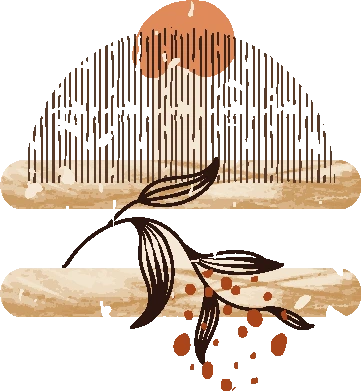
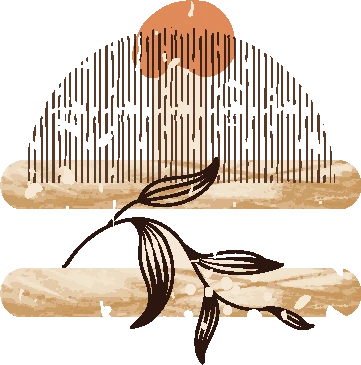
Minute u lijevom stupcu, grancica preko krugova, motivi bez tockica, veci razmak u koracima

diff --git a/en/index.html b/en/index.html
@@ -76,9 +76,9 @@
   .nn .fy-item::before{content:"";position:absolute;left:50%;top:50%;transform:translate(-50%,-50%);
     height:82%;opacity:.1;margin-top:6%;pointer-events:none;z-index:0;
     background:center/contain no-repeat}
-  .nn .fy-item:nth-child(1)::before{background-image:url('../wp-content/uploads/soul/motiv-a7-1.webp');aspect-ratio:361/391}
+  .nn .fy-item:nth-child(1)::before{background-image:url('../wp-content/uploads/soul/motiv-a7-1.webp');aspect-ratio:361/365}
   .nn .fy-item:nth-child(2)::before{background-image:url('../wp-content/uploads/soul/motiv-a7-2.webp');aspect-ratio:326/479}
-  .nn .fy-item:nth-child(3)::before{background-image:url('../wp-content/uploads/soul/motiv-a7-3.webp');aspect-ratio:369/479}
+  .nn .fy-item:nth-child(3)::before{background-image:url('../wp-content/uploads/soul/motiv-a7-3.webp');aspect-ratio:369/456}
   .nn .fy-item:nth-child(4)::before{background-image:url('../wp-content/uploads/soul/motiv-a7-4.webp');aspect-ratio:308/426}
   .nn .fy-item svg,.nn .fy-item .lbl,.nn .fy-item p{position:relative;z-index:1}
   @media(max-width:860px){
@@ -129,20 +129,25 @@
   /* 6 · POKLON BON — okvir desno, tekst lijevo */
   .nn .gift{position:relative;display:block;padding:clamp(4rem,6vw,6.5rem) 2rem;background:var(--cream);overflow:hidden}
   .nn .gwrap{max-width:1240px;margin:0 auto;display:grid;grid-template-columns:auto auto auto;justify-content:center;align-items:center;gap:clamp(1.5rem,4vw,4rem)}
-  .nn .gdivide{position:relative;z-index:2;right:clamp(-120px,-8vw,-54px);width:min(230px,16vw);aspect-ratio:302/548;justify-self:center;background:url('../wp-content/uploads/soul/motiv-a6-4.webp') center/contain no-repeat;align-self:center}
+  .nn .gdivide{position:relative;z-index:2;right:clamp(-165px,-11vw,-74px);width:min(230px,16vw);aspect-ratio:302/548;justify-self:center;background:url('../wp-content/uploads/soul/motiv-a6-4.webp') center/contain no-repeat;align-self:center}
   .nn .gcopy{width:fit-content;max-width:min(460px,34vw)}
   .nn .gcopy .eyebrow{display:block;font-size:.74rem;color:var(--terra);margin-bottom:.9rem}
   .nn .gcopy h2{font-size:clamp(2.2rem,4vw,3.3rem);line-height:1.04;margin-bottom:1.1rem;color:var(--ink)}
   .nn .gcopy p{font-size:clamp(1rem,1.3vw,1.14rem);line-height:1.65;color:var(--ink-soft);max-width:34ch;margin-bottom:1.5rem}
-  .nn .gframe{position:relative;width:min(400px,30vw);aspect-ratio:900/1060;justify-self:center;display:flex;align-items:center;justify-content:center;text-align:center}
-  .nn .gframe::after{content:"";position:absolute;left:50%;top:38%;transform:translate(-50%,-50%);width:114%;aspect-ratio:955/1245;background:url('../wp-content/uploads/soul/motiv-a4-2.webp') center/contain no-repeat;opacity:.34;mix-blend-mode:multiply;pointer-events:none;z-index:0}
-  .nn .gin{position:relative;z-index:1;width:100%;margin-top:14%}
-  .nn .v-mins{display:flex;align-items:stretch;justify-content:center;gap:clamp(1rem,1.6vw,1.6rem);margin-bottom:.9rem}
-  .nn .vm{display:flex;flex-direction:column;align-items:center;gap:.3rem;padding:0 clamp(.4rem,.8vw,.8rem)}
+  .nn .gframe{position:relative;width:min(400px,30vw);aspect-ratio:900/1060;justify-self:center}
+  .nn .gframe::before,.nn .gframe::after{content:"";position:absolute;left:50%;top:38%;transform:translate(-50%,-50%);width:114%;aspect-ratio:955/1245;background-position:center;background-size:contain;background-repeat:no-repeat;pointer-events:none}
+  /* akvarel ostaje iza kruznog vektora */
+  .nn .gframe::before{background-image:url('../wp-content/uploads/soul/motiv-a4-2-wash.webp');opacity:.34;mix-blend-mode:multiply;z-index:0}
+  /* grancica ide preko kruznog vektora */
+  .nn .gframe::after{background-image:url('../wp-content/uploads/soul/motiv-a4-2-line.webp');opacity:.55;z-index:3}
+  .nn .v-rule{display:block;width:100%;max-width:230px;height:1px;background:rgba(196,85,31,.32);margin:1.8rem 0 1.5rem}
+  .nn .v-mins{display:flex;align-items:stretch;justify-content:flex-start;gap:clamp(1rem,1.6vw,1.6rem);margin-bottom:.75rem}
+  .nn .vm{display:flex;flex-direction:column;align-items:center;gap:.3rem;padding:0 clamp(.5rem,1vw,1rem)}
+  .nn .vm:first-child{padding-left:0}
   .nn .vm+.vm{border-left:1px solid rgba(196,85,31,.32)}
   .nn .vm-n{font-family:var(--serif);font-size:clamp(1.9rem,2.9vw,2.6rem);line-height:1;color:var(--terra)}
   .nn .vm-u{font-family:var(--caps);font-size:.6rem;letter-spacing:.22em;text-transform:uppercase;color:var(--muted)}
-  .nn .v-unit{font-family:var(--caps);font-size:clamp(.66rem,1vw,.84rem);letter-spacing:.16em;text-transform:uppercase;font-weight:700;color:var(--ink-soft);margin:.7rem 0 0}
+  .nn .v-unit{font-family:var(--caps);font-size:clamp(.66rem,1vw,.84rem);letter-spacing:.16em;text-transform:uppercase;font-weight:700;color:var(--ink-soft);margin:0 0 1.9rem}
   .nn .gin .rule{display:block;width:52px;height:1px;margin:1.5rem auto;background:rgba(196,85,31,.45)}
   .nn .gift-notes{list-style:none;margin:0;padding:0;display:inline-flex;flex-direction:column;align-items:flex-start;text-align:left;gap:.55rem;font-family:var(--caps);font-size:clamp(.6rem,.9vw,.76rem);letter-spacing:.04em;text-transform:uppercase;color:var(--ink-soft)}
   .nn .gift-notes li::before{content:"\2726";color:var(--terra);margin-right:.4rem}
@@ -152,12 +157,16 @@
   @media(max-width:820px){
     .nn .gift{padding:4.5rem 1.6rem 5rem}
     .nn .gwrap{grid-template-columns:1fr;gap:2.2rem;text-align:center;justify-items:center;justify-content:stretch}
+    .nn .v-mins{justify-content:center}
+    .nn .v-rule{margin-left:auto;margin-right:auto}
+    .nn .vm:first-child{padding-left:clamp(.5rem,1vw,1rem)}
     .nn .gcopy{width:100%;max-width:none}
     .nn .gcopy h2{white-space:nowrap}
     .nn .gcopy p{max-width:30ch}
     .nn .link-arrow{white-space:nowrap;letter-spacing:.14em;font-size:.74rem}
     .nn .gframe{width:min(320px,84vw)}
-    .nn .gframe::after{width:98%;opacity:.3}
+    .nn .gframe::before,.nn .gframe::after{width:98%}
+    .nn .gframe::before{opacity:.3}
     .nn .gdivide{width:clamp(90px,26vw,140px);right:0}
     .nn .gcopy{justify-self:center}
     .nn .gcopy p{margin-left:auto;margin-right:auto}
@@ -183,15 +192,15 @@
   /* 8b · KORACI — lukovi na dubljem krem tonu */
   .nn .steps{background:var(--cream2);padding:8rem 2rem 8.5rem;text-align:center}
   .nn .steps .eyebrow{display:block;color:var(--terra);margin-bottom:.9rem}
-  .nn .steps h2{font-size:clamp(2rem,3.4vw,3rem);color:var(--ink);margin-bottom:4.5rem}
+  .nn .steps h2{font-size:clamp(2rem,3.4vw,3rem);color:var(--ink);margin-bottom:7rem}
   .nn .st-grid{position:relative;max-width:1140px;margin:0 auto;display:grid;grid-template-columns:repeat(4,minmax(0,1fr));gap:clamp(2.6rem,5vw,5rem)}
     background:linear-gradient(90deg,transparent,rgba(196,85,31,.35) 12%,rgba(196,85,31,.35) 88%,transparent)}
   .nn .st{position:relative}
   .nn .st-mark{position:relative;height:clamp(120px,13vw,178px);width:auto;margin:0 auto 1.7rem;
     background:center/contain no-repeat}
-  .nn .st:nth-child(1) .st-mark{aspect-ratio:361/391;background-image:url('../wp-content/uploads/soul/motiv-a7-1.webp')}
+  .nn .st:nth-child(1) .st-mark{aspect-ratio:361/365;background-image:url('../wp-content/uploads/soul/motiv-a7-1.webp')}
   .nn .st:nth-child(2) .st-mark{aspect-ratio:326/479;background-image:url('../wp-content/uploads/soul/motiv-a7-2.webp')}
-  .nn .st:nth-child(3) .st-mark{aspect-ratio:369/479;background-image:url('../wp-content/uploads/soul/motiv-a7-3.webp')}
+  .nn .st:nth-child(3) .st-mark{aspect-ratio:369/456;background-image:url('../wp-content/uploads/soul/motiv-a7-3.webp')}
   .nn .st:nth-child(4) .st-mark{aspect-ratio:308/426;background-image:url('../wp-content/uploads/soul/motiv-a7-4.webp')}
   .nn .st h3{font-family:var(--serif);font-weight:700;font-size:1.35rem;color:var(--ink);margin-bottom:.5rem}
   .nn .st p{font-family:var(--bodyf);font-size:1.04rem;line-height:1.6;color:var(--ink-soft);max-width:23ch;margin:0 auto}
@@ -388,19 +397,17 @@
           <p class="eyebrow">A gift</p>
           <h2>Gift voucher</h2>
           <p>Give someone what can't usually be bought, time just for themselves.</p>
+          <span class="v-rule" aria-hidden="true"></span>
+          <div class="v-mins">
+            <div class="vm"><span class="vm-n">60</span><span class="vm-u">min</span></div>
+            <div class="vm"><span class="vm-n">75</span><span class="vm-u">min</span></div>
+            <div class="vm"><span class="vm-n">90</span><span class="vm-u">min</span></div>
+          </div>
+          <p class="v-unit">minutes of your ritual</p>
           <a class="link-arrow" href="gift-voucher/">See gift vouchers <span aria-hidden="true">&rsaquo;</span></a>
         </div>
         <div class="gdivide" aria-hidden="true"></div>
-        <div class="gframe">
-          <div class="gin">
-            <div class="v-mins">
-              <div class="vm"><span class="vm-n">60</span><span class="vm-u">min</span></div>
-              <div class="vm"><span class="vm-n">75</span><span class="vm-u">min</span></div>
-              <div class="vm"><span class="vm-n">90</span><span class="vm-u">min</span></div>
-            </div>
-            <p class="v-unit">minutes of your ritual</p>
-          </div>
-        </div>
+        <div class="gframe" aria-hidden="true"></div>
       </div>
     </section>
 

diff --git a/index.html b/index.html
@@ -77,9 +77,9 @@
   .nn .fy-item::before{content:"";position:absolute;left:50%;top:50%;transform:translate(-50%,-50%);
     height:82%;opacity:.1;margin-top:6%;pointer-events:none;z-index:0;
     background:center/contain no-repeat}
-  .nn .fy-item:nth-child(1)::before{background-image:url('wp-content/uploads/soul/motiv-a7-1.webp');aspect-ratio:361/391}
+  .nn .fy-item:nth-child(1)::before{background-image:url('wp-content/uploads/soul/motiv-a7-1.webp');aspect-ratio:361/365}
   .nn .fy-item:nth-child(2)::before{background-image:url('wp-content/uploads/soul/motiv-a7-2.webp');aspect-ratio:326/479}
-  .nn .fy-item:nth-child(3)::before{background-image:url('wp-content/uploads/soul/motiv-a7-3.webp');aspect-ratio:369/479}
+  .nn .fy-item:nth-child(3)::before{background-image:url('wp-content/uploads/soul/motiv-a7-3.webp');aspect-ratio:369/456}
   .nn .fy-item:nth-child(4)::before{background-image:url('wp-content/uploads/soul/motiv-a7-4.webp');aspect-ratio:308/426}
   .nn .fy-item svg,.nn .fy-item .lbl,.nn .fy-item p{position:relative;z-index:1}
   @media(max-width:860px){
@@ -130,20 +130,25 @@
   /* 6 · POKLON BON — okvir desno, tekst lijevo */
   .nn .gift{position:relative;display:block;padding:clamp(4rem,6vw,6.5rem) 2rem;background:var(--cream);overflow:hidden}
   .nn .gwrap{max-width:1240px;margin:0 auto;display:grid;grid-template-columns:auto auto auto;justify-content:center;align-items:center;gap:clamp(1.5rem,4vw,4rem)}
-  .nn .gdivide{position:relative;z-index:2;right:clamp(-120px,-8vw,-54px);width:min(230px,16vw);aspect-ratio:302/548;justify-self:center;background:url('wp-content/uploads/soul/motiv-a6-4.webp') center/contain no-repeat;align-self:center}
+  .nn .gdivide{position:relative;z-index:2;right:clamp(-165px,-11vw,-74px);width:min(230px,16vw);aspect-ratio:302/548;justify-self:center;background:url('wp-content/uploads/soul/motiv-a6-4.webp') center/contain no-repeat;align-self:center}
   .nn .gcopy{width:fit-content;max-width:min(460px,34vw)}
   .nn .gcopy .eyebrow{display:block;font-size:.74rem;color:var(--terra);margin-bottom:.9rem}
   .nn .gcopy h2{font-size:clamp(2.2rem,4vw,3.3rem);line-height:1.04;margin-bottom:1.1rem;color:var(--ink)}
   .nn .gcopy p{font-size:clamp(1rem,1.3vw,1.14rem);line-height:1.65;color:var(--ink-soft);max-width:34ch;margin-bottom:1.5rem}
-  .nn .gframe{position:relative;width:min(400px,30vw);aspect-ratio:900/1060;justify-self:center;display:flex;align-items:center;justify-content:center;text-align:center}
-  .nn .gframe::after{content:"";position:absolute;left:50%;top:38%;transform:translate(-50%,-50%);width:114%;aspect-ratio:955/1245;background:url('wp-content/uploads/soul/motiv-a4-2.webp') center/contain no-repeat;opacity:.34;mix-blend-mode:multiply;pointer-events:none;z-index:0}
-  .nn .gin{position:relative;z-index:1;width:100%;margin-top:14%}
-  .nn .v-mins{display:flex;align-items:stretch;justify-content:center;gap:clamp(1rem,1.6vw,1.6rem);margin-bottom:.9rem}
-  .nn .vm{display:flex;flex-direction:column;align-items:center;gap:.3rem;padding:0 clamp(.4rem,.8vw,.8rem)}
+  .nn .gframe{position:relative;width:min(400px,30vw);aspect-ratio:900/1060;justify-self:center}
+  .nn .gframe::before,.nn .gframe::after{content:"";position:absolute;left:50%;top:38%;transform:translate(-50%,-50%);width:114%;aspect-ratio:955/1245;background-position:center;background-size:contain;background-repeat:no-repeat;pointer-events:none}
+  /* akvarel ostaje iza kruznog vektora */
+  .nn .gframe::before{background-image:url('wp-content/uploads/soul/motiv-a4-2-wash.webp');opacity:.34;mix-blend-mode:multiply;z-index:0}
+  /* grancica ide preko kruznog vektora */
+  .nn .gframe::after{background-image:url('wp-content/uploads/soul/motiv-a4-2-line.webp');opacity:.55;z-index:3}
+  .nn .v-rule{display:block;width:100%;max-width:230px;height:1px;background:rgba(196,85,31,.32);margin:1.8rem 0 1.5rem}
+  .nn .v-mins{display:flex;align-items:stretch;justify-content:flex-start;gap:clamp(1rem,1.6vw,1.6rem);margin-bottom:.75rem}
+  .nn .vm{display:flex;flex-direction:column;align-items:center;gap:.3rem;padding:0 clamp(.5rem,1vw,1rem)}
+  .nn .vm:first-child{padding-left:0}
   .nn .vm+.vm{border-left:1px solid rgba(196,85,31,.32)}
   .nn .vm-n{font-family:var(--serif);font-size:clamp(1.9rem,2.9vw,2.6rem);line-height:1;color:var(--terra)}
   .nn .vm-u{font-family:var(--caps);font-size:.6rem;letter-spacing:.22em;text-transform:uppercase;color:var(--muted)}
-  .nn .v-unit{font-family:var(--caps);font-size:clamp(.66rem,1vw,.84rem);letter-spacing:.16em;text-transform:uppercase;font-weight:700;color:var(--ink-soft);margin:.7rem 0 0}
+  .nn .v-unit{font-family:var(--caps);font-size:clamp(.66rem,1vw,.84rem);letter-spacing:.16em;text-transform:uppercase;font-weight:700;color:var(--ink-soft);margin:0 0 1.9rem}
   .nn .gin .rule{display:block;width:52px;height:1px;margin:1.5rem auto;background:rgba(196,85,31,.45)}
   .nn .gift-notes{list-style:none;margin:0;padding:0;display:inline-flex;flex-direction:column;align-items:flex-start;text-align:left;gap:.55rem;font-family:var(--caps);font-size:clamp(.6rem,.9vw,.76rem);letter-spacing:.04em;text-transform:uppercase;color:var(--ink-soft)}
   .nn .gift-notes li::before{content:"\2726";color:var(--terra);margin-right:.4rem}
@@ -153,12 +158,16 @@
   @media(max-width:820px){
     .nn .gift{padding:4.5rem 1.6rem 5rem}
     .nn .gwrap{grid-template-columns:1fr;gap:2.2rem;text-align:center;justify-items:center;justify-content:stretch}
+    .nn .v-mins{justify-content:center}
+    .nn .v-rule{margin-left:auto;margin-right:auto}
+    .nn .vm:first-child{padding-left:clamp(.5rem,1vw,1rem)}
     .nn .gcopy{width:100%;max-width:none}
     .nn .gcopy h2{white-space:nowrap}
     .nn .gcopy p{max-width:30ch}
     .nn .link-arrow{white-space:nowrap;letter-spacing:.14em;font-size:.74rem}
     .nn .gframe{width:min(320px,84vw)}
-    .nn .gframe::after{width:98%;opacity:.3}
+    .nn .gframe::before,.nn .gframe::after{width:98%}
+    .nn .gframe::before{opacity:.3}
     .nn .gdivide{width:clamp(90px,26vw,140px);right:0}
     .nn .gcopy{justify-self:center}
     .nn .gcopy p{margin-left:auto;margin-right:auto}
@@ -184,15 +193,15 @@
   /* 8b · KORACI — lukovi na dubljem krem tonu */
   .nn .steps{background:var(--cream2);padding:8rem 2rem 8.5rem;text-align:center}
   .nn .steps .eyebrow{display:block;color:var(--terra);margin-bottom:.9rem}
-  .nn .steps h2{font-size:clamp(2rem,3.4vw,3rem);color:var(--ink);margin-bottom:4.5rem}
+  .nn .steps h2{font-size:clamp(2rem,3.4vw,3rem);color:var(--ink);margin-bottom:7rem}
   .nn .st-grid{position:relative;max-width:1140px;margin:0 auto;display:grid;grid-template-columns:repeat(4,minmax(0,1fr));gap:clamp(2.6rem,5vw,5rem)}
     background:linear-gradient(90deg,transparent,rgba(196,85,31,.35) 12%,rgba(196,85,31,.35) 88%,transparent)}
   .nn .st{position:relative}
   .nn .st-mark{position:relative;height:clamp(120px,13vw,178px);width:auto;margin:0 auto 1.7rem;
     background:center/contain no-repeat}
-  .nn .st:nth-child(1) .st-mark{aspect-ratio:361/391;background-image:url('wp-content/uploads/soul/motiv-a7-1.webp')}
+  .nn .st:nth-child(1) .st-mark{aspect-ratio:361/365;background-image:url('wp-content/uploads/soul/motiv-a7-1.webp')}
   .nn .st:nth-child(2) .st-mark{aspect-ratio:326/479;background-image:url('wp-content/uploads/soul/motiv-a7-2.webp')}
-  .nn .st:nth-child(3) .st-mark{aspect-ratio:369/479;background-image:url('wp-content/uploads/soul/motiv-a7-3.webp')}
+  .nn .st:nth-child(3) .st-mark{aspect-ratio:369/456;background-image:url('wp-content/uploads/soul/motiv-a7-3.webp')}
   .nn .st:nth-child(4) .st-mark{aspect-ratio:308/426;background-image:url('wp-content/uploads/soul/motiv-a7-4.webp')}
   .nn .st h3{font-family:var(--serif);font-weight:700;font-size:1.35rem;color:var(--ink);margin-bottom:.5rem}
   .nn .st p{font-family:var(--bodyf);font-size:1.04rem;line-height:1.6;color:var(--ink-soft);max-width:23ch;margin:0 auto}
@@ -389,19 +398,17 @@
           <p class="eyebrow">Pokloni</p>
           <h2>Poklon bon</h2>
           <p>Pokloni nekome ono što se ne može kupiti, vrijeme samo za sebe.</p>
+          <span class="v-rule" aria-hidden="true"></span>
+          <div class="v-mins">
+            <div class="vm"><span class="vm-n">60</span><span class="vm-u">min</span></div>
+            <div class="vm"><span class="vm-n">75</span><span class="vm-u">min</span></div>
+            <div class="vm"><span class="vm-n">90</span><span class="vm-u">min</span></div>
+          </div>
+          <p class="v-unit">minuta tvog rituala</p>
           <a class="link-arrow" href="poklon-bon/">Pogledaj poklon bonove <span aria-hidden="true">&rsaquo;</span></a>
         </div>
         <div class="gdivide" aria-hidden="true"></div>
-        <div class="gframe">
-          <div class="gin">
-            <div class="v-mins">
-              <div class="vm"><span class="vm-n">60</span><span class="vm-u">min</span></div>
-              <div class="vm"><span class="vm-n">75</span><span class="vm-u">min</span></div>
-              <div class="vm"><span class="vm-n">90</span><span class="vm-u">min</span></div>
-            </div>
-            <p class="v-unit">minuta tvog rituala</p>
-          </div>
-        </div>
+        <div class="gframe" aria-hidden="true"></div>
       </div>
     </section>
 
